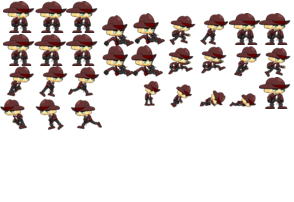
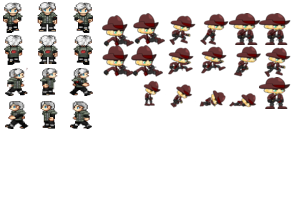
Add animations sprites and news sprites

Changed region(s): [[0.0, 0.0, 0.3673, 0.6535]]

diff --git a/sprites.py b/sprites.py
@@ -31,6 +31,7 @@ class Player(pygame.sprite.Sprite):
         self.y_change = 0
 
         self.facing = 'down'
+        self.animation_loop = 1
 
         self.image = self.game.character_spritesheet.get_sprite(3, 2, self.width, self.height)
         self.rect = self.image.get_rect()
@@ -39,6 +40,7 @@ class Player(pygame.sprite.Sprite):
 
     def update(self):
         self.movement()
+        self.animate()
 
         self.rect.x += self.x_change
         self.collide_block('x')
@@ -79,6 +81,59 @@ class Player(pygame.sprite.Sprite):
                     self.rect.y = hits[0].rect.top - self.rect.height
                 if self.y_change < 0:
                     self.rect.y = hits[0].rect.bottom
+                    
+    def animate(self):
+        down_animations = [self.game.character_spritesheet.get_sprite(3, 2, self.width, self.height),
+                           self.game.character_spritesheet.get_sprite(35, 2, self.width, self.height),
+                           self.game.character_spritesheet.get_sprite(68, 2, self.width, self.height)]
+
+        up_animations = [self.game.character_spritesheet.get_sprite(3, 34, self.width, self.height),
+                         self.game.character_spritesheet.get_sprite(35, 34, self.width, self.height),
+                         self.game.character_spritesheet.get_sprite(68, 34, self.width, self.height)]
+
+        left_animations = [self.game.character_spritesheet.get_sprite(3, 98, self.width, self.height),
+                           self.game.character_spritesheet.get_sprite(35, 98, self.width, self.height),
+                           self.game.character_spritesheet.get_sprite(68, 98, self.width, self.height)]
+
+        right_animations = [self.game.character_spritesheet.get_sprite(3, 66, self.width, self.height),
+                            self.game.character_spritesheet.get_sprite(35, 66, self.width, self.height),
+                            self.game.character_spritesheet.get_sprite(68, 66, self.width, self.height)]
+        
+        if self.facing == "down":
+            if self.y_change == 0:
+                self.image == self.game.character_spritesheet.get_sprite(3, 2, self.width, self.height)
+            else:
+                self.image = down_animations[math.floor(self.animation_loop)]
+                self.animation_loop += 0.1
+                if self.animation_loop >= 3:
+                    self.animation_loop = 1
+                    
+        if self.facing == "up":
+            if self.y_change == 0:
+                self.image == self.game.character_spritesheet.get_sprite(3, 34, self.width, self.height)
+            else:
+                self.image = up_animations[math.floor(self.animation_loop)]
+                self.animation_loop += 0.1
+                if self.animation_loop >= 3:
+                    self.animation_loop = 1
+                    
+        if self.facing == "left":
+            if self.x_change == 0:
+                self.image == self.game.character_spritesheet.get_sprite(3, 98, self.width, self.height)
+            else:
+                self.image = left_animations[math.floor(self.animation_loop)]
+                self.animation_loop += 0.1
+                if self.animation_loop >= 3:
+                    self.animation_loop = 1
+                    
+        if self.facing == "right":
+            if self.x_change == 0:
+                self.image == self.game.character_spritesheet.get_sprite(3, 66, self.width, self.height)
+            else:
+                self.image = right_animations[math.floor(self.animation_loop)]
+                self.animation_loop += 0.1
+                if self.animation_loop >= 3:
+                    self.animation_loop = 1
 
 class Block(pygame.sprite.Sprite):
     def __init__(self, game, x, y):
